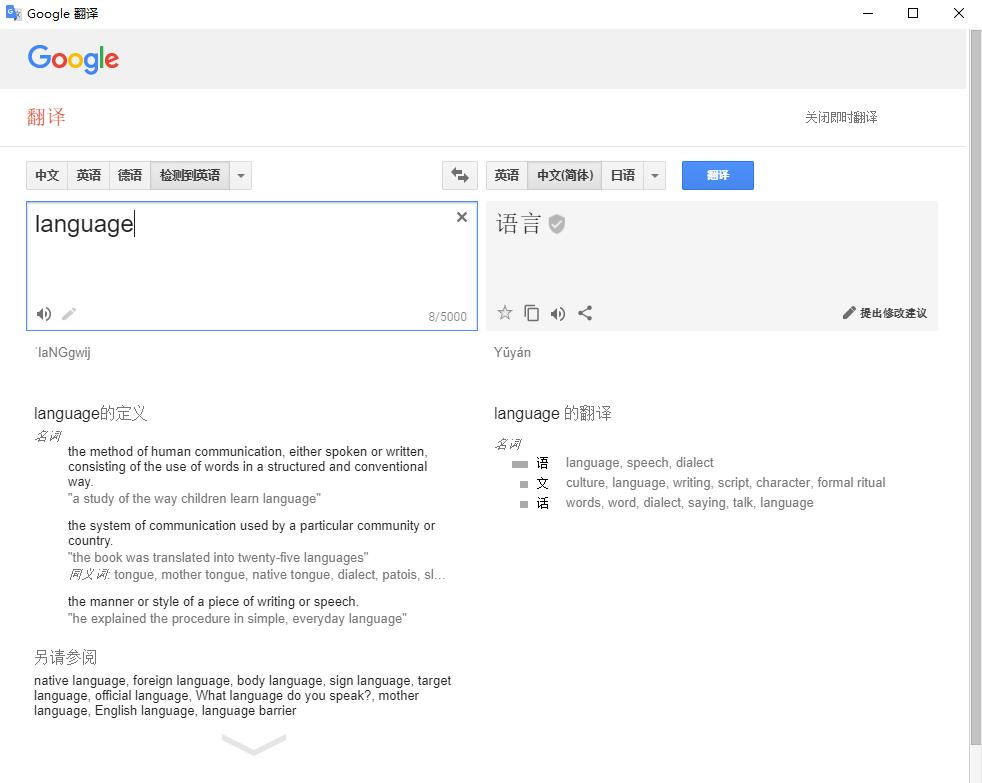
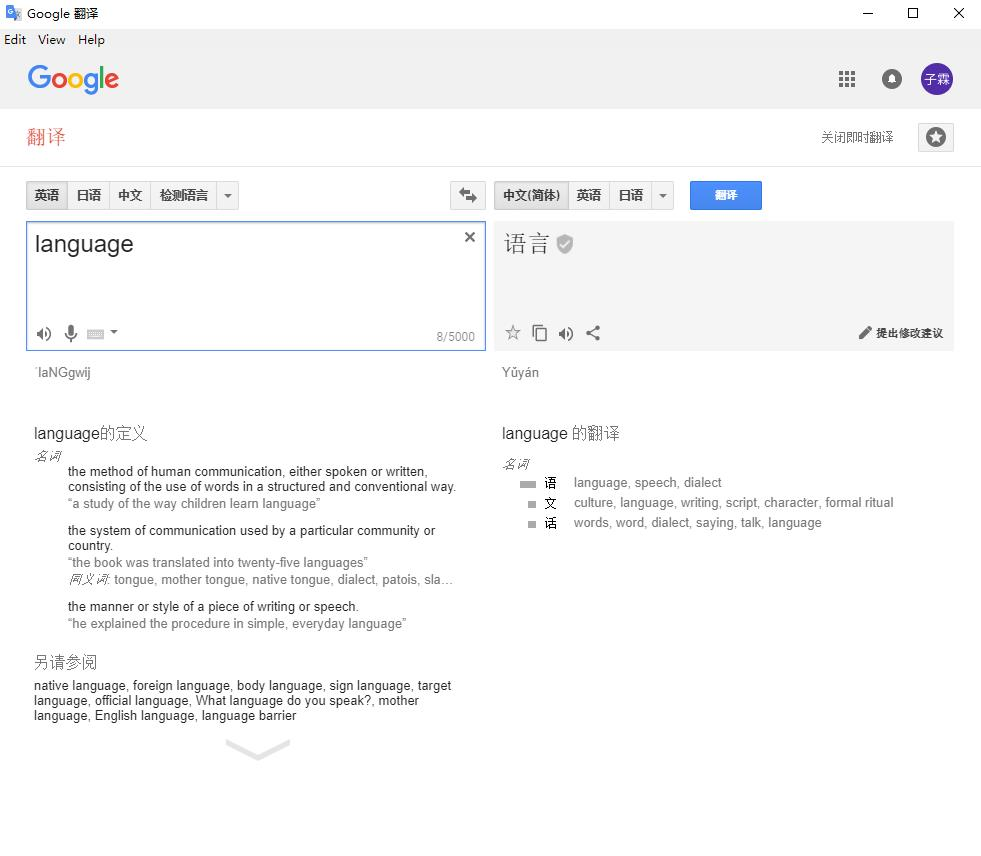
add menu bar and back function

diff --git a/src/menu.js b/src/menu.js
@@ -1,0 +1,73 @@
+const { app, Menu, shell } = require('electron')
+
+const template = [
+    {
+        role: 'editMenu'
+    },
+    {
+        label: 'View',
+        submenu: [
+            {role: 'reload'},
+            {
+                label: 'Back',
+                accelerator: 'Backspace',
+                click (menuItem, browserWindow) {
+                    if(browserWindow.webContents.canGoBack())
+                        browserWindow.webContents.goBack();
+                }
+            },
+        ]
+    },
+    {
+        role: 'help',
+        submenu: [
+            {
+                label: 'About',
+                click () { shell.openExternal('https://github.com/zhuzilin/google-translate-desktop') }
+            }
+        ]
+    }
+];
+
+if (process.platform === 'darwin') {
+    template.unshift({
+        label: app.getName(),
+        submenu: [
+            {role: 'about'},
+            {type: 'separator'},
+            {role: 'services', submenu: []},
+            {type: 'separator'},
+            {role: 'hide'},
+            {role: 'hideothers'},
+            {role: 'unhide'},
+            {type: 'separator'},
+            {role: 'quit'}
+
+        ]
+    });
+
+    // Edit menu
+    template[1].submenu.push(
+        {type: 'separator'},
+        {
+            label: 'Speech',
+            submenu: [
+                {role: 'startspeaking'},
+                {role: 'stopspeaking'}
+            ]
+        }
+    );
+
+    // Window menu
+    template[3].submenu = [
+        {role: 'close'},
+        {role: 'minimize'},
+        {role: 'zoom'},
+        {type: 'separator'},
+        {role: 'front'}
+    ]
+}
+
+const menu = Menu.buildFromTemplate(template)
+
+exports.menu = menu;

diff --git a/src/main.js b/src/main.js
@@ -1,4 +1,5 @@
-const { app, Menu, BrowserWindow } = require('electron');
+const { app, Menu, BrowserWindow, MenuItem } = require('electron');
+let menu = require('./menu').menu;
 
 let mainWindow;
 
@@ -12,14 +13,13 @@ function createWindow() {
             nodeIntegration: false
         }
     });
+    // mainWindow.webContents.openDevTools();
     mainWindow.loadURL('https://translate.google.com/');
     mainWindow.webContents.on('dom-ready', () => {mainWindow.webContents.executeJavaScript(`
         document.getElementById('gt-ft-res').style.display = 'none';
-        document.getElementById('gt-pb-sw1').style.display = 'none';
-        document.getElementById('select_document').style.display = 'none';
-        document.getElementsByClassName('gb_Dc gb_Rg gb_R')[0].style.display = 'none';
     `);}
     );
+
     mainWindow.on('closed', () => {
         mainWindow = null;
     });
@@ -27,26 +27,7 @@ function createWindow() {
 
 app.on('ready', () => {
     createWindow();
-    // Check if we are on a MAC
-  if (process.platform === 'darwin') {
-    // Create our menu entries so that we can use MAC shortcuts
-    Menu.setApplicationMenu(Menu.buildFromTemplate([
-      {
-        label: 'Edit',
-        submenu: [
-          { role: 'undo' },
-          { role: 'redo' },
-          { type: 'separator' },
-          { role: 'cut' },
-          { role: 'copy' },
-          { role: 'paste' },
-          { role: 'pasteandmatchstyle' },
-          { role: 'delete' },
-          { role: 'selectall' }
-        ]
-      }
-    ]));
-  }
+    Menu.setApplicationMenu(menu);
 });
 
 app.on('window-all-closed', () => {
